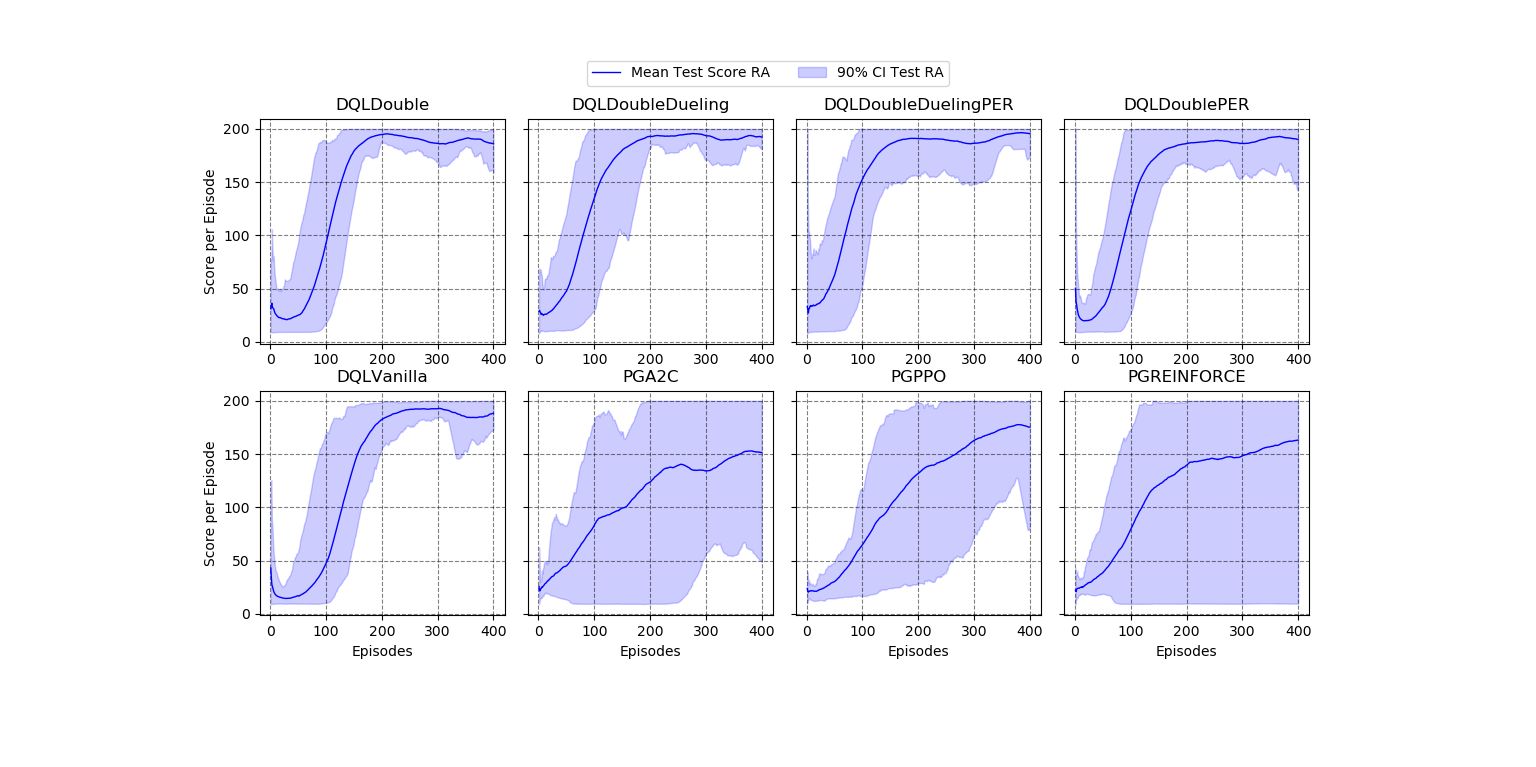
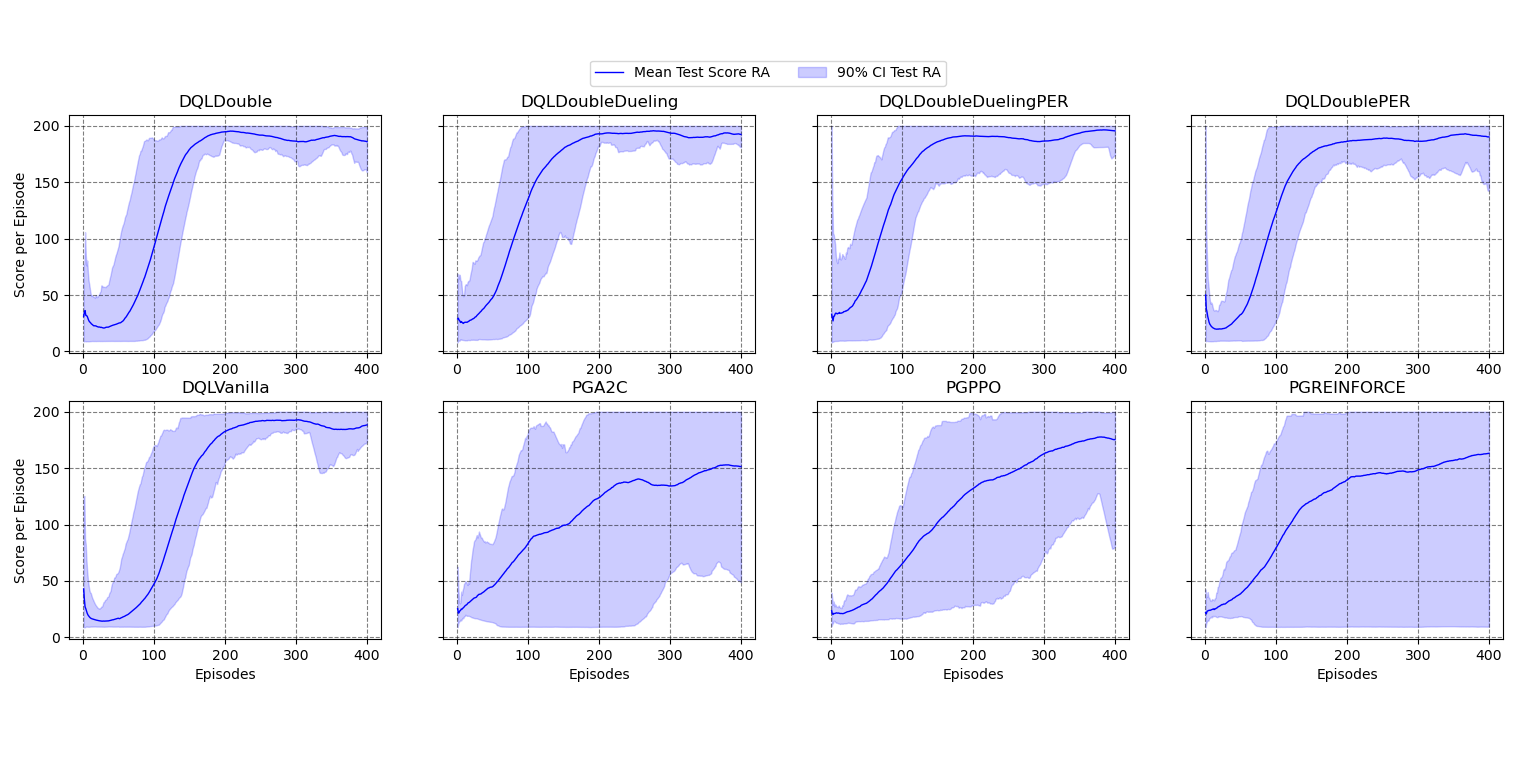
log scale for first-over graph, saved new graphs

diff --git a/utils/graph.py b/utils/graph.py
@@ -149,6 +149,8 @@ def plot_first_over(folders_data, ra=True, test_or_train='test', first_over=180,
     #     plt.title('First Time a Score of %d is Reached during %sing Phase\n(Scale and Mean bootstrapped over %d computations)' % (first_over, test_or_train.title(), nb_computations))
     plt.grid(True, which="both", linestyle='--', color='k', alpha=0.5)
     plt.legend(prop={'size': 9})
+    plt.ylim(bottom=10)
+    plt.yscale('log')
 
 
 def plot_ppo_alone(process_avg_over=50):
@@ -169,10 +171,10 @@ if __name__ == "__main__":
     process_avg_over = 50          # Rolling Average Window
     ra = True
     first_over = 180
-    # folders_data = process_folders(os.listdir('Results/'), alpha, nb_computations, process_avg_over, first_over)
-    # plot_all(folders_data, test_or_train='test', ra=ra)
-    # time_table(folders_data, latex=True)
-    # plot_comparison(folders_data, test_or_train='test', ra=ra)
-    # plot_first_over(folders_data, ra=ra, test_or_train='test', first_over=first_over, display_mean=True)
-    plot_ppo_alone()
+    folders_data = process_folders(os.listdir('Results/'), alpha, nb_computations, process_avg_over, first_over)
+    plot_all(folders_data, test_or_train='test', ra=ra)
+    time_table(folders_data, latex=True)
+    plot_comparison(folders_data, test_or_train='test', ra=ra)
+    plot_first_over(folders_data, ra=ra, test_or_train='test', first_over=first_over, display_mean=True)
+    # plot_ppo_alone()
     plt.show()
